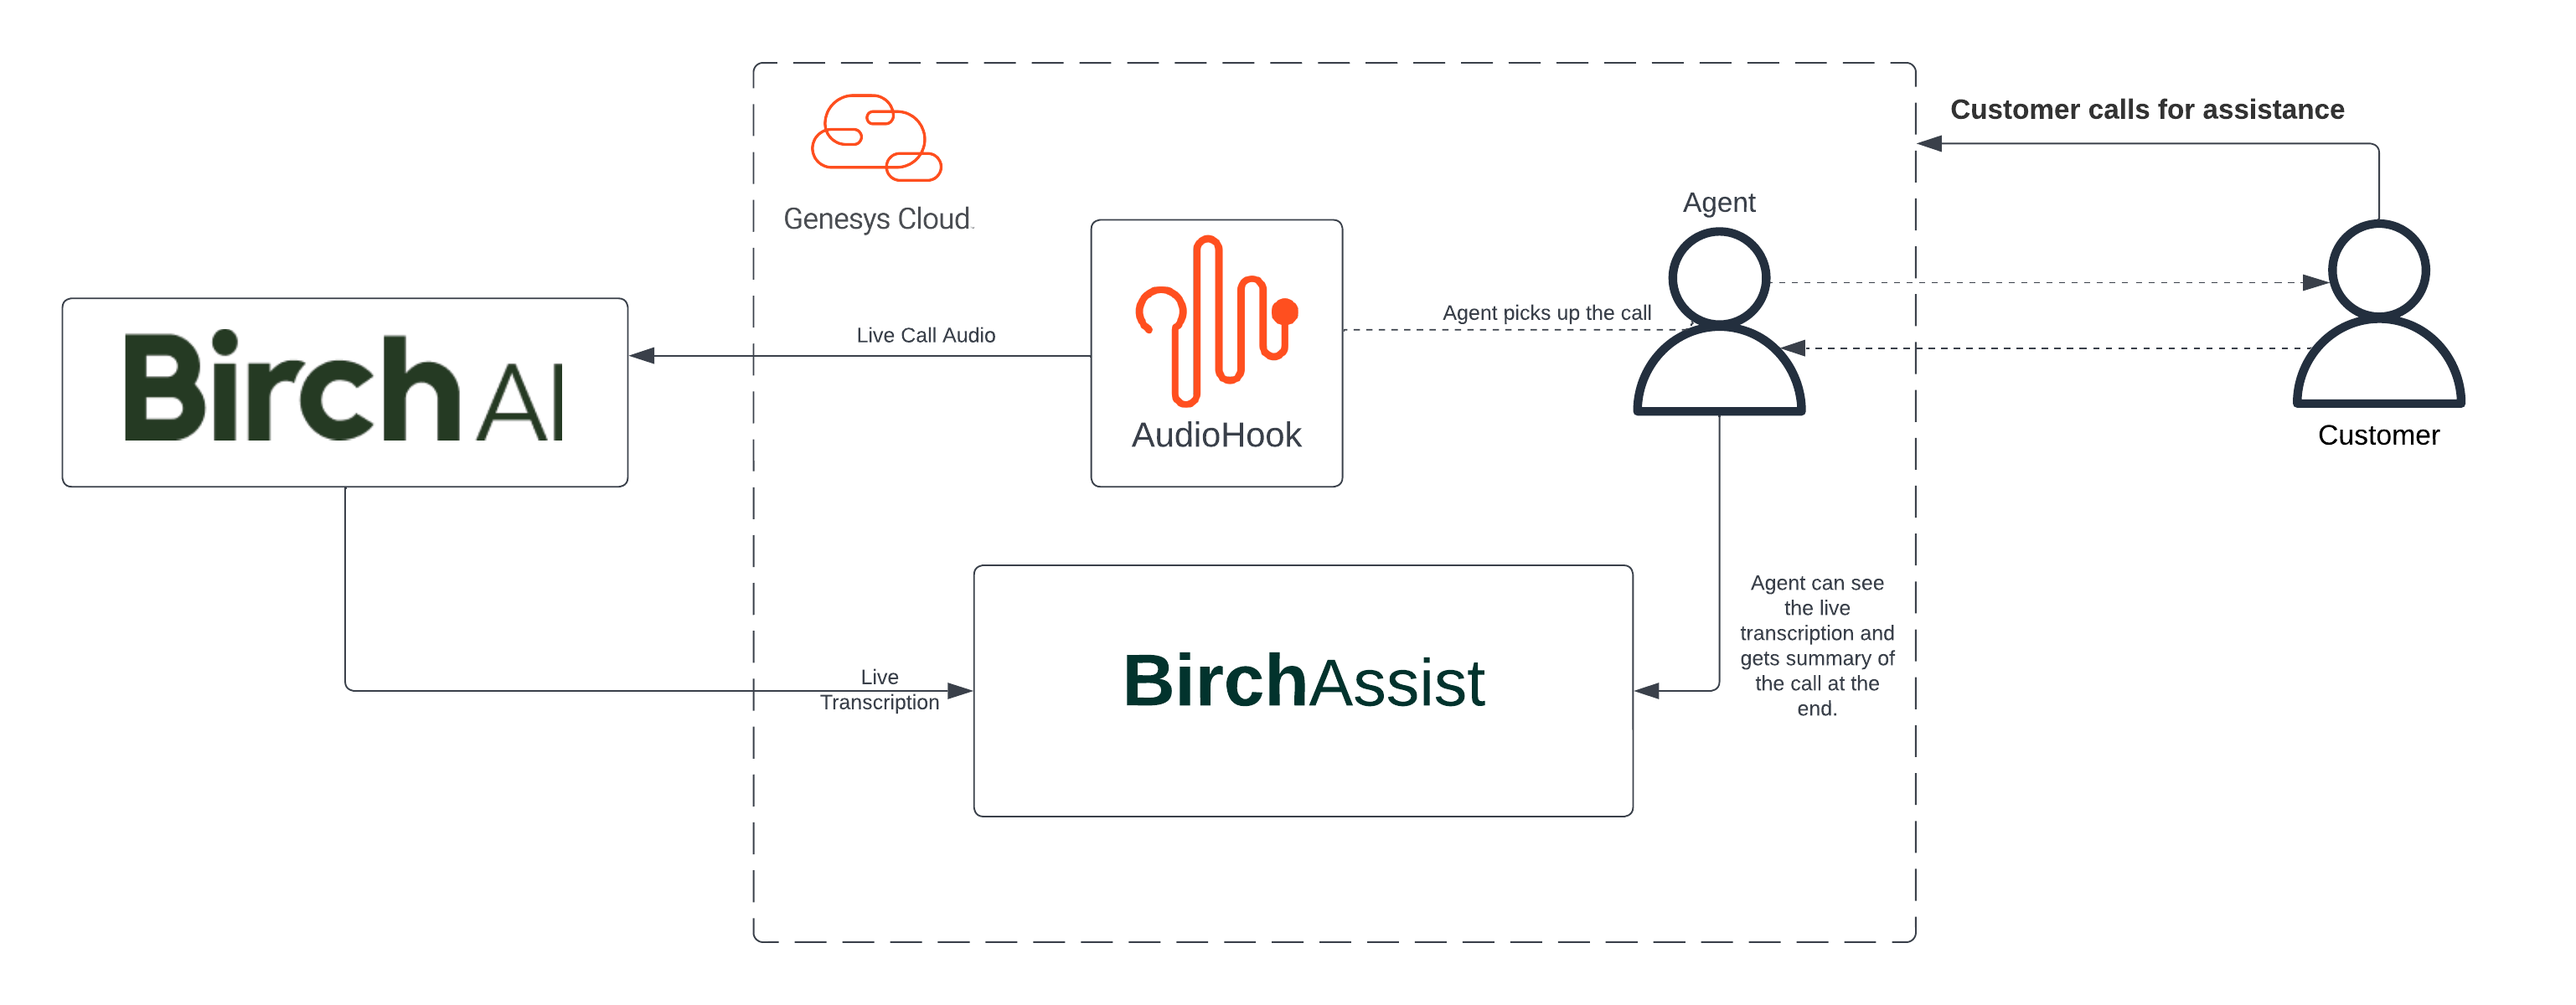
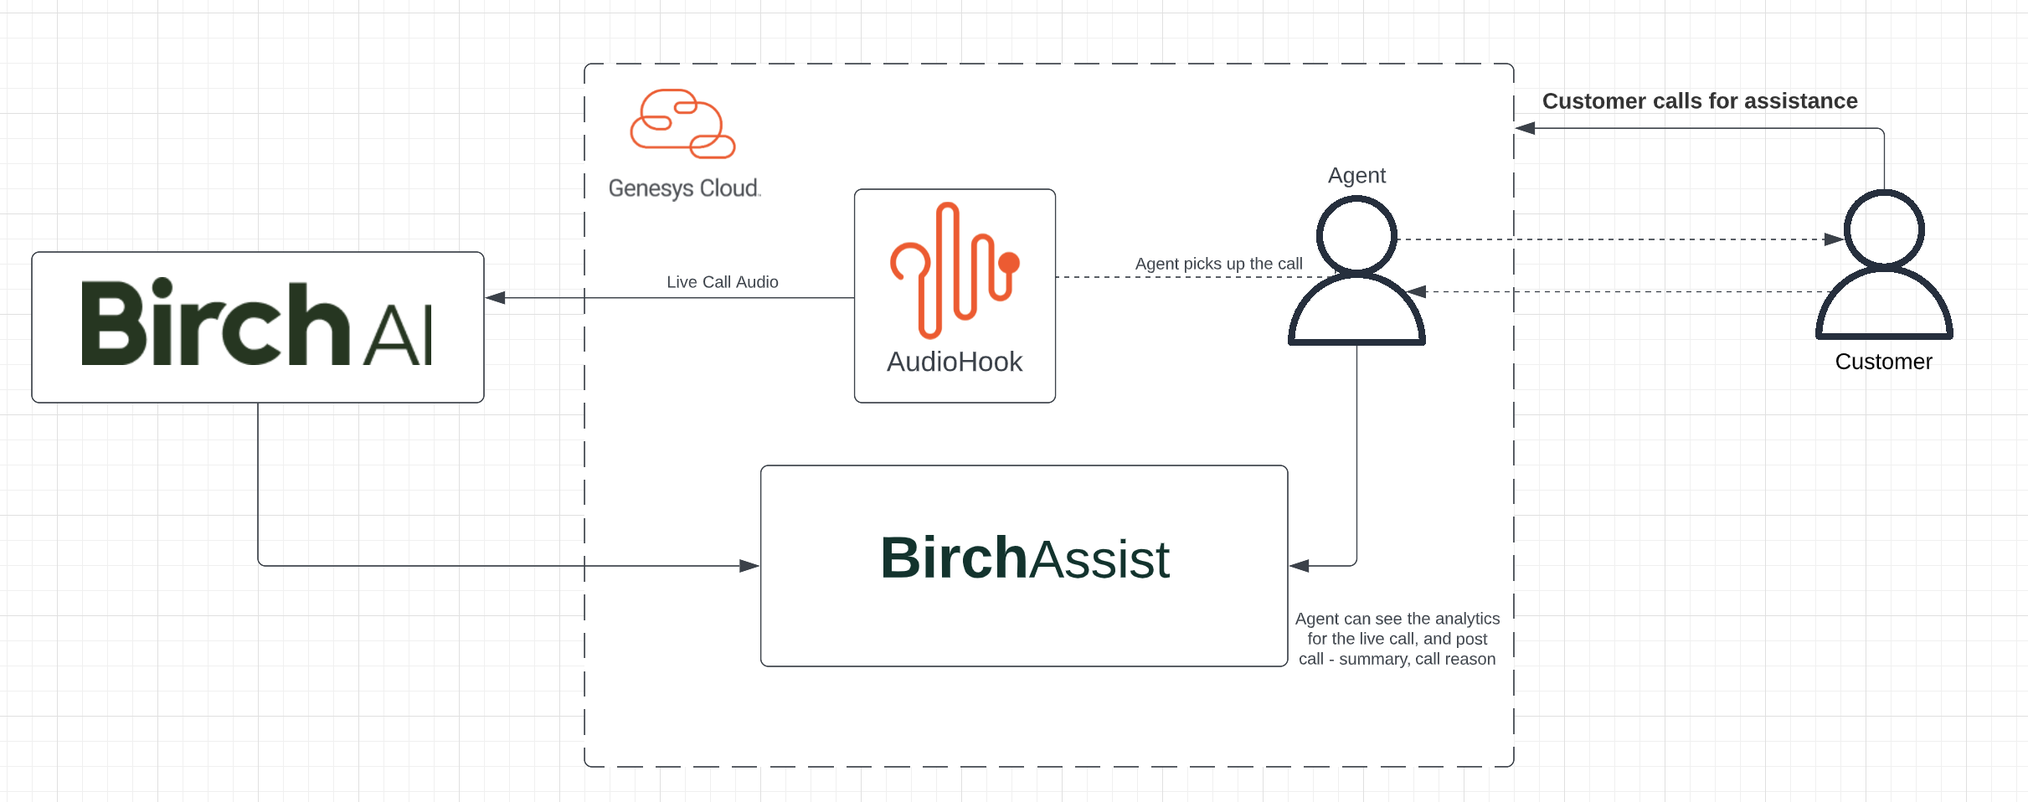
readme updated

diff --git a/blueprint/index.md b/blueprint/index.md
@@ -1,8 +1,34 @@
-# BirchAssist Blueprint
+# BirchAssist
 
-BirchAI introduces Birch Assist to help automate the complex after-call-work using our own state-of-the-art AI tools. We offer variety of options including **live transcription** and **concise summary** of the call within 15 seconds. For more information and how to setup Birch Assist for your organization within the Genesys Cloud, contact us [here](https://birch.ai/#footerscroll).
+BirchAI introduces Birch Assist to help automate the complex after-call-work using our own state-of-the-art AI tools. We offer variety of options including **Live Call Analytics** - Task Tracking, Sentiment Tracking, Fields Extraction, Pacing guidance among others and **After Call Work** that involves summary, call reason, call classification. 
 
+For more information and how to setup Birch Assist for your organization within the Genesys Cloud, contact us [here](https://birch.ai/#footerscroll).
+
+# Architecture Overview
 The following illustration shows the integration overview between the Genesys Cloud and BirchAI:
 
-![Birch Assist Integration](images/genesys_birchai_workflow.png "Birch Assist Integration Overview")
+![Birch Assist Integration](images/genesys_birchai_workflow_1.png "Birch Assist Integration Overview")
 
+
+# Solution components
+## Genesys Cloud
+A suite of Genesys cloud services for enterprise-grade communications, collaboration, and contact center management.
+
+## Genesys AppFoundry
+The Genesys app marketplace for solutions that run on the Genesys Cloud platform. You download the integration used in this solution from the Genesys AppFoundry.
+
+## Interaction Widget integration
+The Genesys Cloud integration that enables web apps to be embedded in an iframe within Genesys Cloud. The iframe only appears on specified interaction types and to specified agents. For this solution, Genesys Cloud uses the Interaction Widget integration
+
+## BirchAI Account
+You would need a active BirchAI account.
+
+## AudioHook integration
+For the live call streams - audio hook integration is required. 
+
+## Specialized knowledge
+Administrator-level knowledge of Genesys Cloud  
+Experience using the Genesys Cloud OAuth Process for third party apps
+
+
+For the detailed steps to setup, Please contact us here - demo@birch.ai
